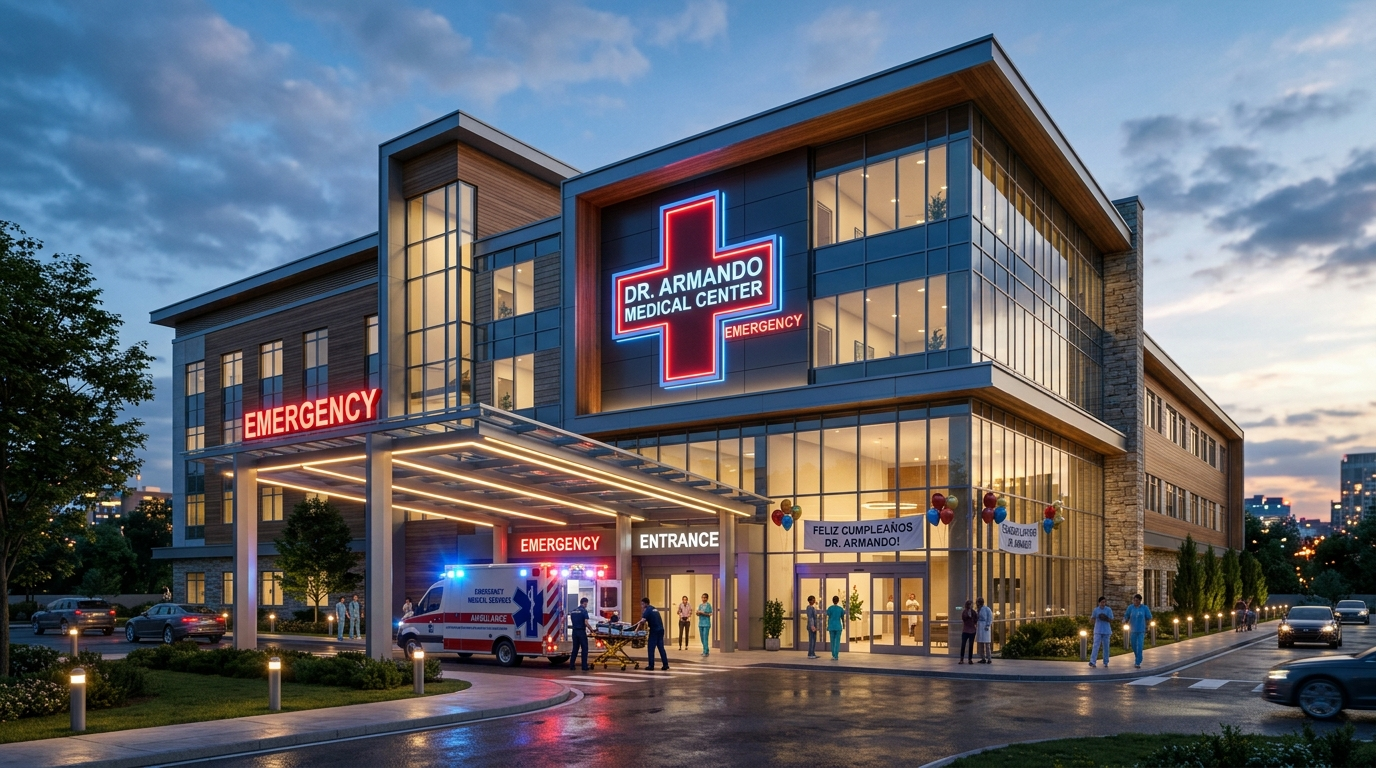
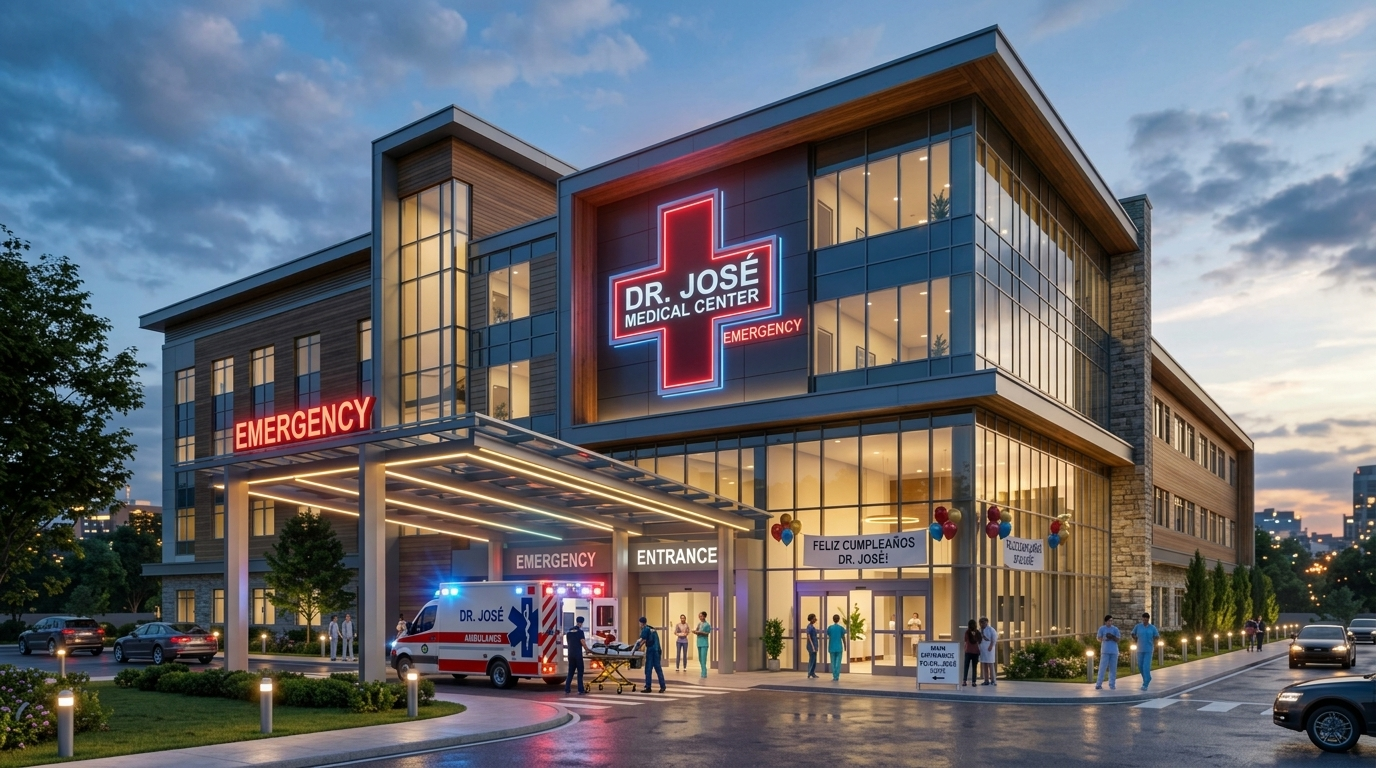
Actualizar foto de la fachada del hospital a Dr. Jose Medical Center y pancarta de cumpleanos

diff --git a/index.html b/index.html
@@ -90,7 +90,7 @@
       <!-- Fachada Visual 3D del Edificio del Hospital -->
       <div class="hospital-building-showcase">
         <div class="hospital-photo-container">
-          <img src="hospital.jpg" alt="Fachada del Hospital Dr. José Medical Center" class="hospital-hero-photo">
+          <img src="hospital.jpg?v=jose-v1" alt="Fachada del Hospital Dr. José Medical Center" class="hospital-hero-photo">
           
           <!-- Efectos luminosos dinámicos sobre la fachada del hospital -->
           <div class="hospital-photo-overlay"></div>
